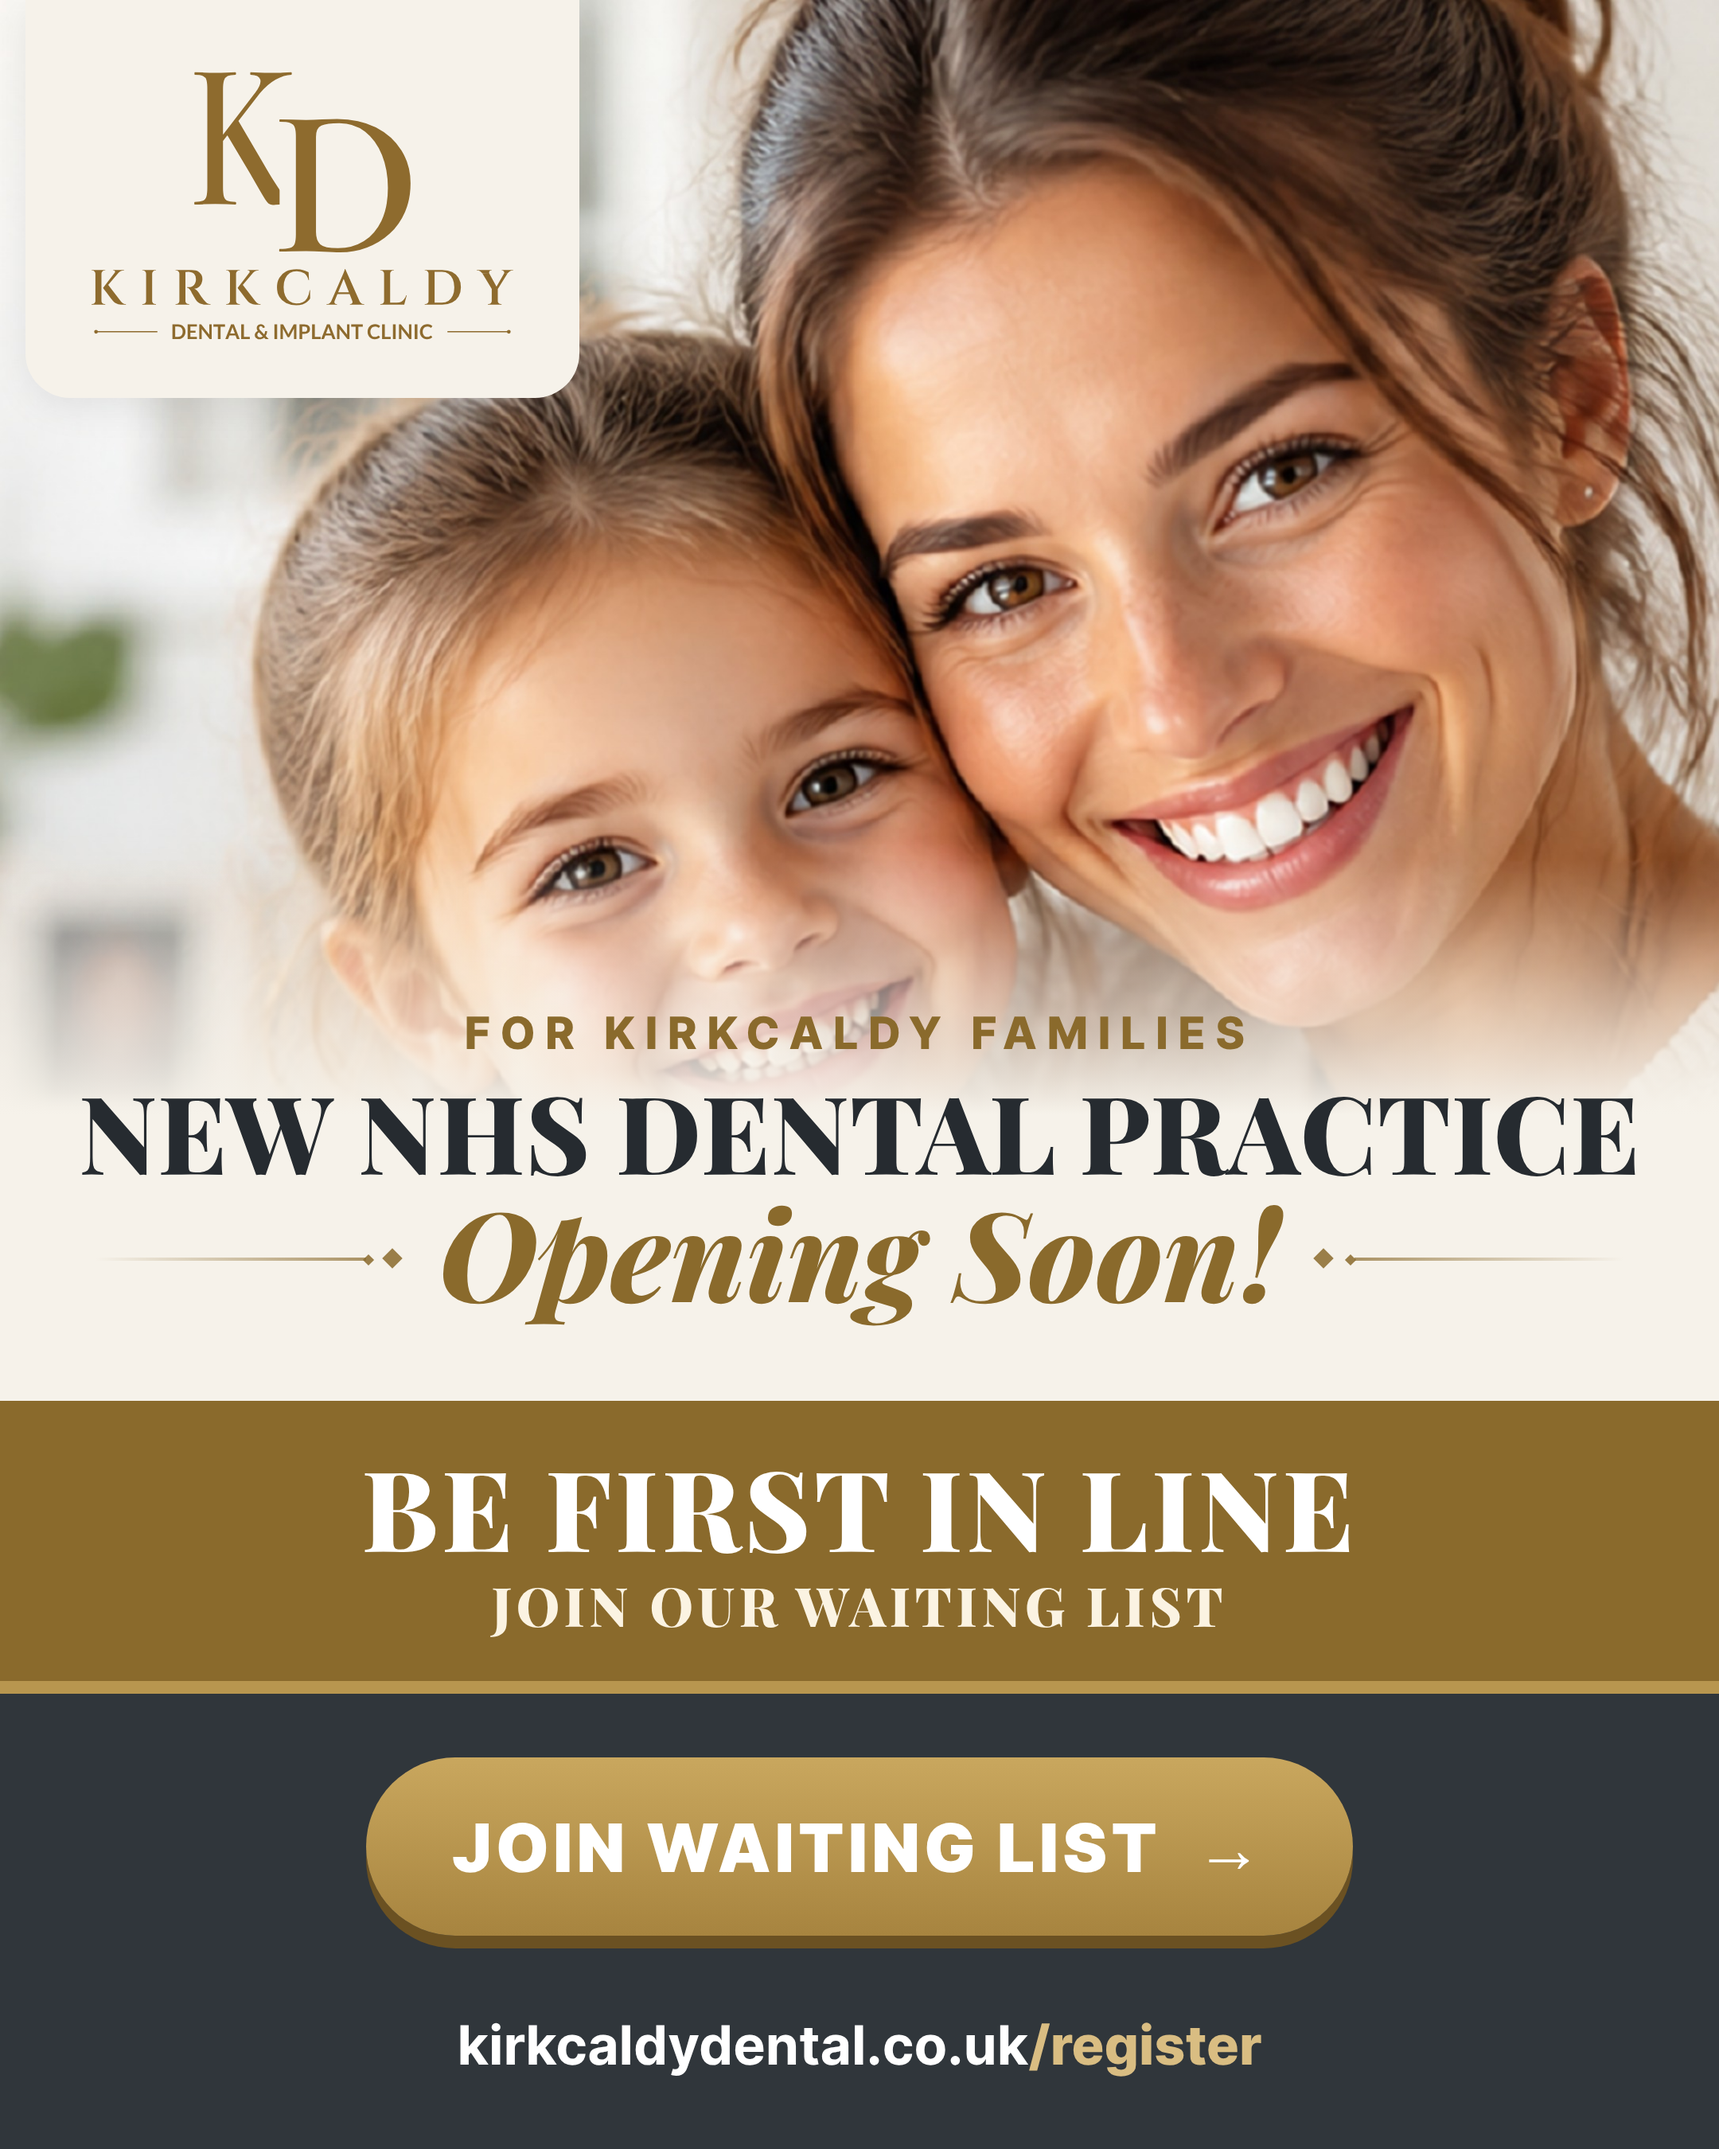
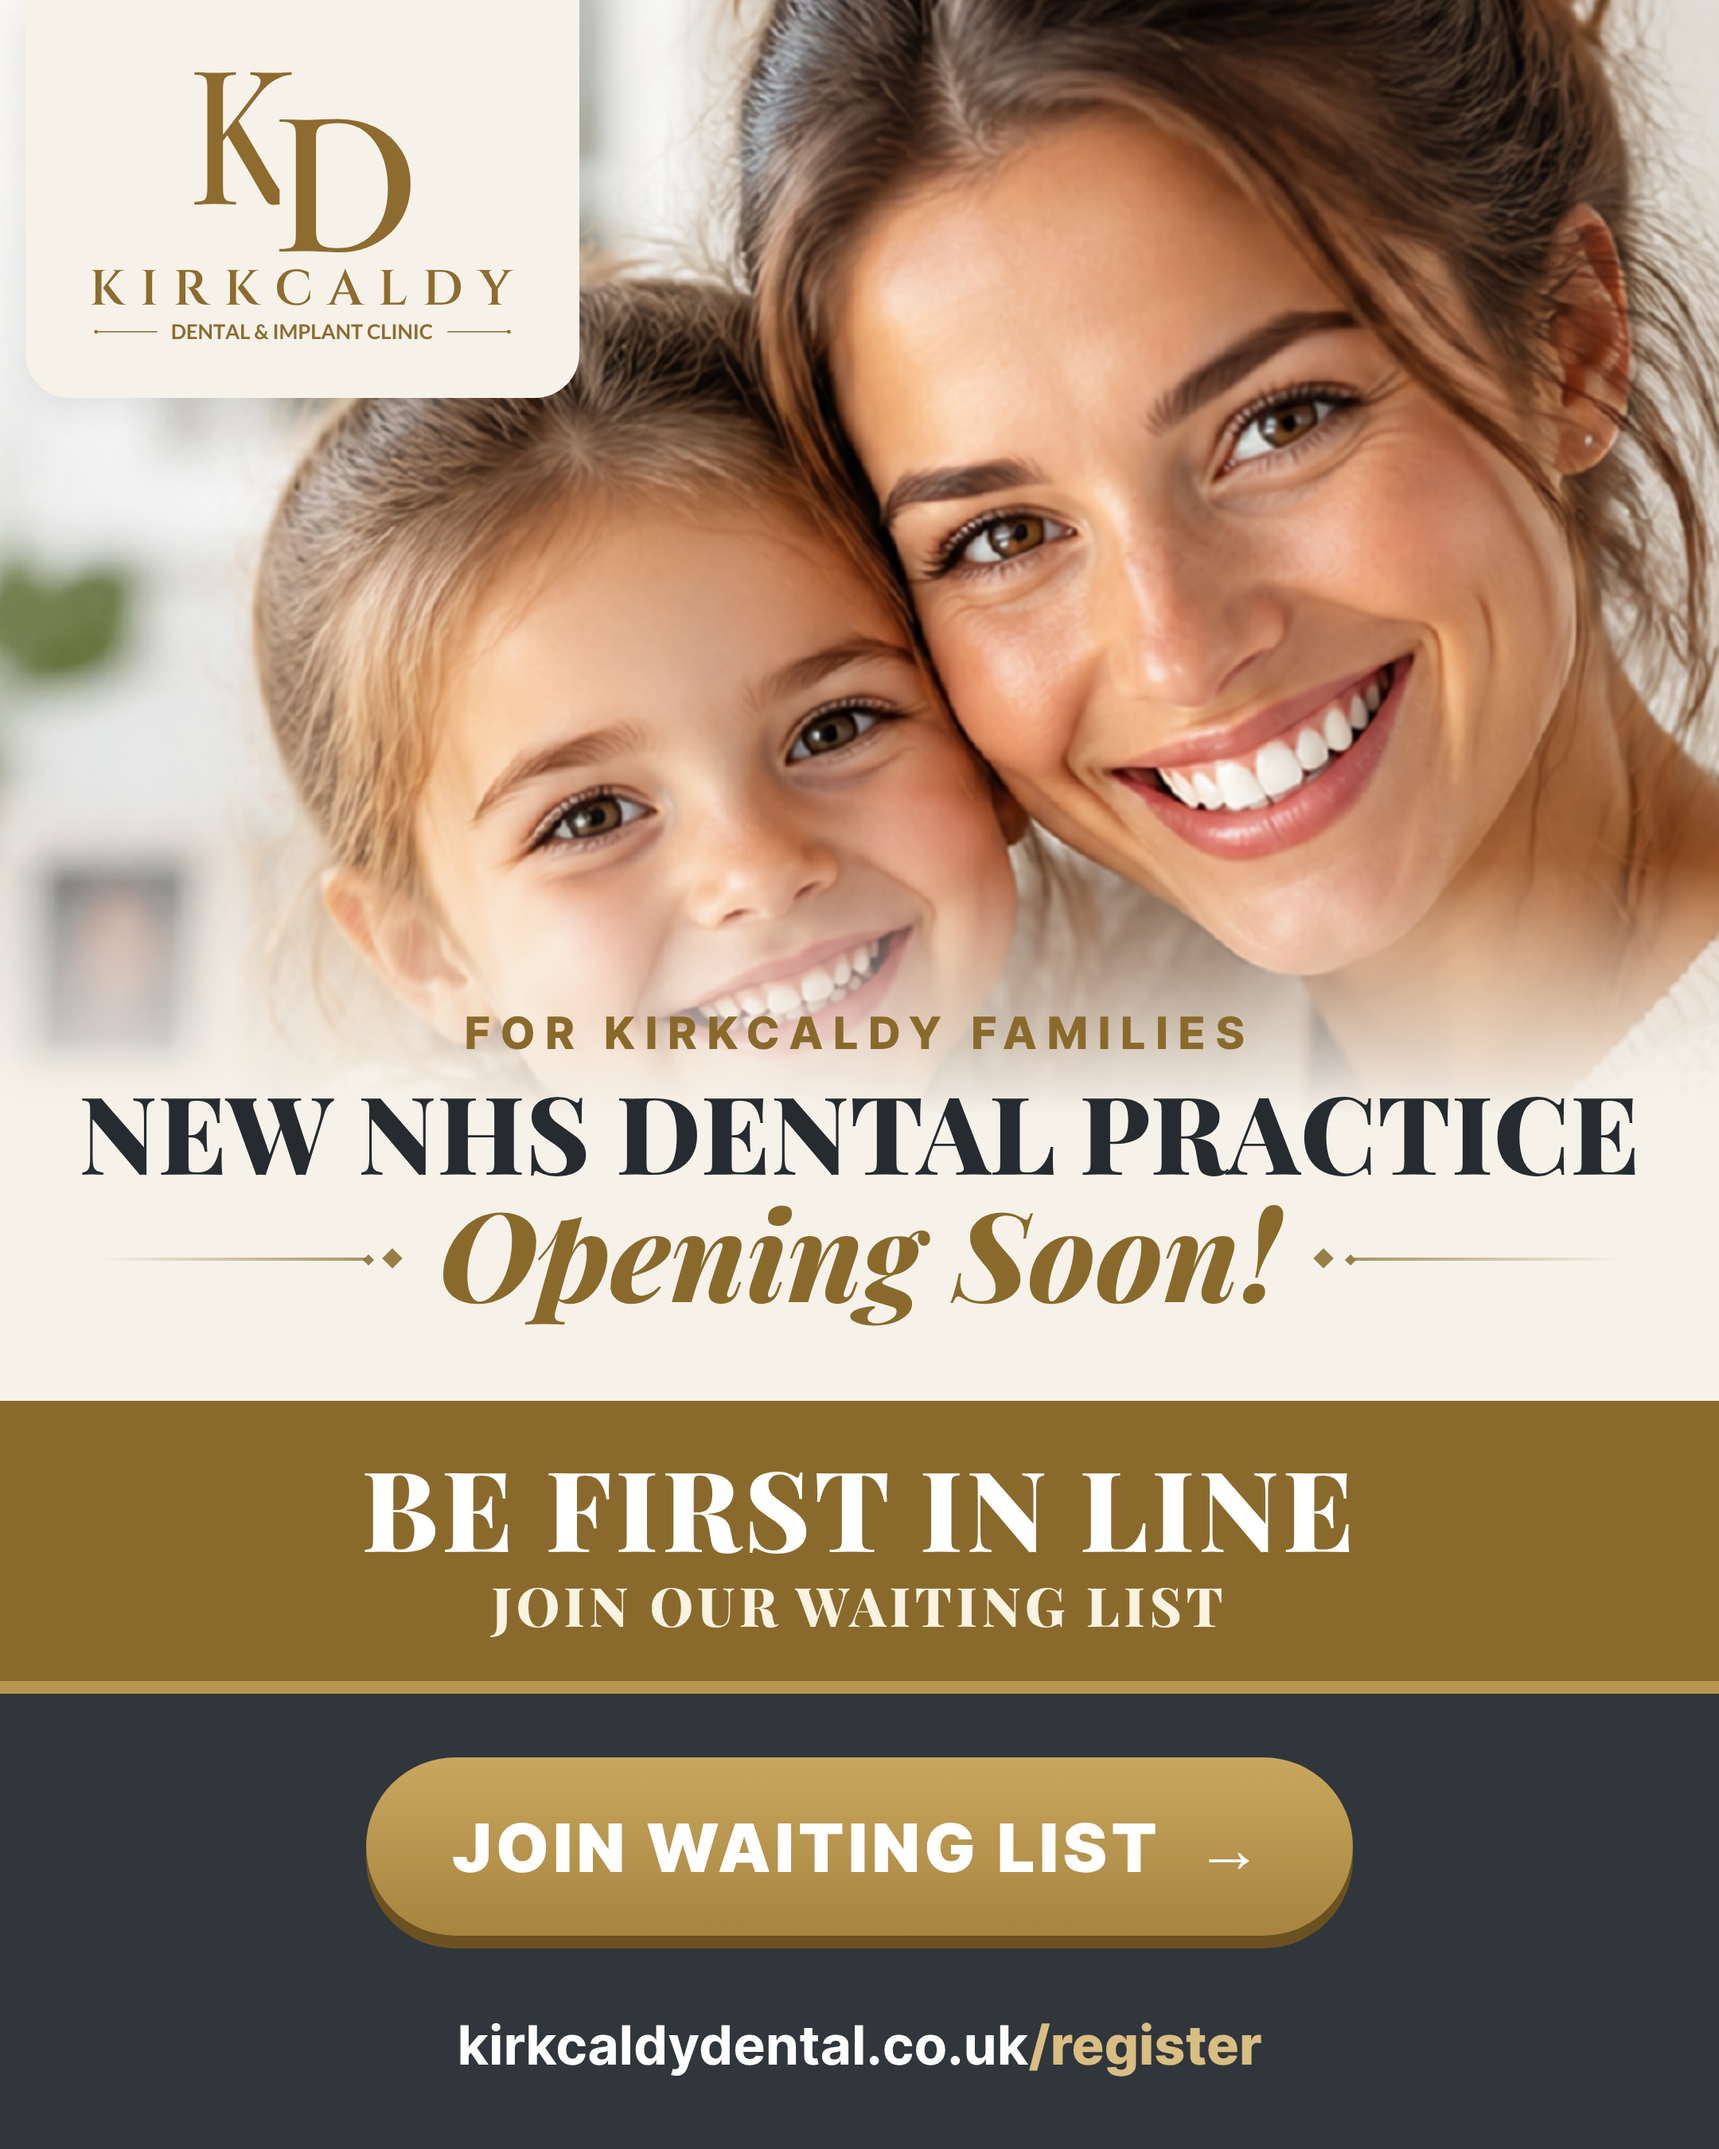
Ads: Stories button/URL above Meta's bottom overlay; nudge Ad B photo
Claude-Session: https://claude.ai/code/session_013umgPt6TGNXXMN4VEpExxU

Changed region(s): [[0.0, 0.0, 1.0, 0.4978], [0.6204, 0.1556, 0.6514, 0.1867]]

diff --git a/ads/source/ad.html b/ads/source/ad.html
@@ -46,12 +46,12 @@ body{width:1080px;position:relative;overflow:hidden;background:var(--cream);font
 <script>
 const C={
   A:{photo:'photo-woman.jpg',pos:'38% 30%',l1:'New NHS Dental Practice',l2:'Opening Soon!',kicker:'Kirkcaldy · Fife'},
-  B:{photo:'photo-family.jpg',pos:'50% 75%',l1:'New NHS Dental Practice',l2:'Opening Soon!',kicker:'For Kirkcaldy Families'}
+  B:{photo:'photo-family.jpg',pos:'50% 92%',l1:'New NHS Dental Practice',l2:'Opening Soon!',kicker:'For Kirkcaldy Families'}
 };
 // px layout per format: [H, photoTop, photoH, logoW, kickerTop, headTop, headMax, stripTop, stripH, panelTop, btnTop, btnW, btnH, btnFont, urlTop, urlFont]
 const L={
   feed:{H:1350,pT:0,pH:700,logoW:300,logoX:390,logoTop:0,kT:632,hT:676,hMax:76,sT:880,sH:176,pnT:1056,bT:1104,bW:620,bH:112,bF:42,uT:1264,uF:34},
-  story:{H:1920,pT:330,pH:830,logoW:380,logoX:350,logoTop:40,kT:1100,hT:1148,hMax:80,sT:1370,sH:196,pnT:1566,bT:1616,bW:680,bH:120,bF:46,uT:1776,uF:38}
+  story:{H:1920,pT:290,pH:640,logoW:340,logoX:370,logoTop:30,kT:885,hT:930,hMax:80,sT:1150,sH:186,pnT:1336,bT:1362,bW:660,bH:108,bF:44,uT:1484,uF:32}
 };
 const q=new URLSearchParams(location.search), c=C[q.get('ad')||'A'], l={...L[q.get('fmt')||'feed']};
 if(q.get('fmt')!=='story') l.logoX=(q.get('ad')==='B')?40:720;
